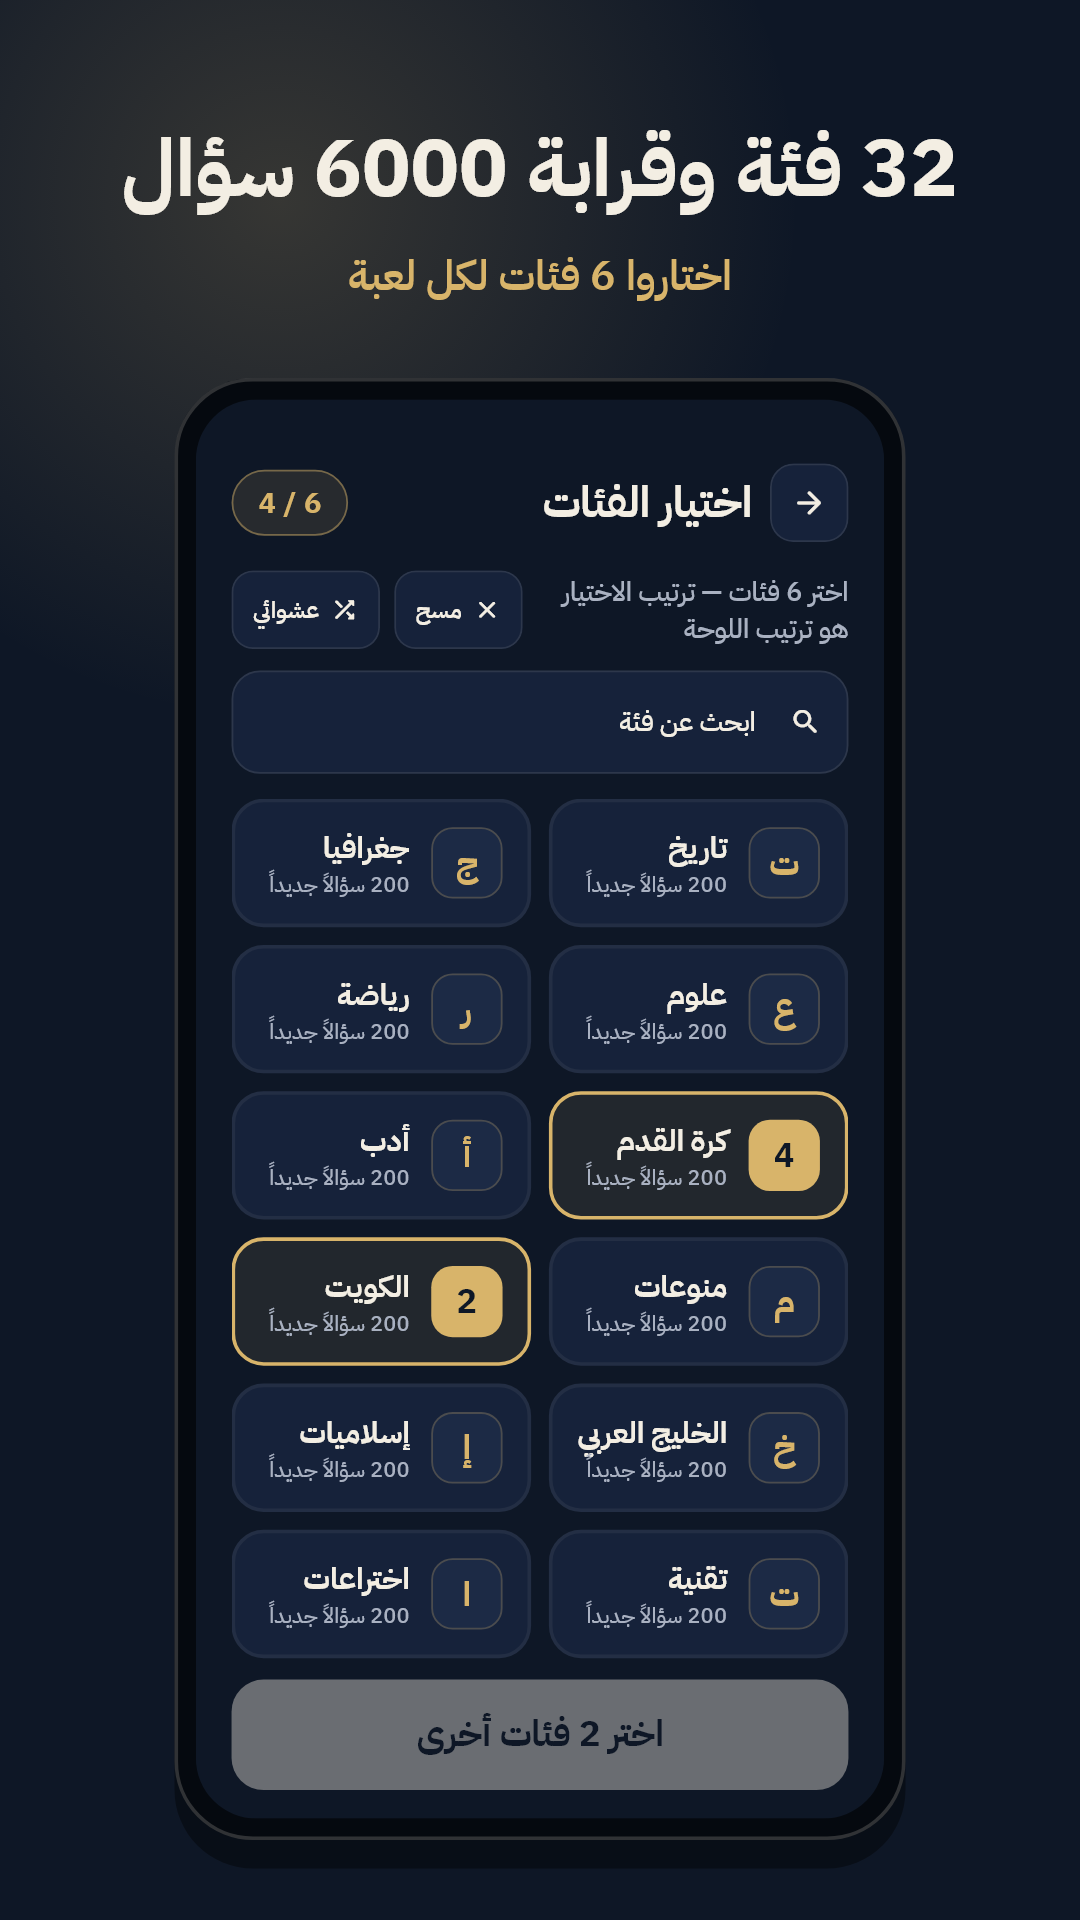
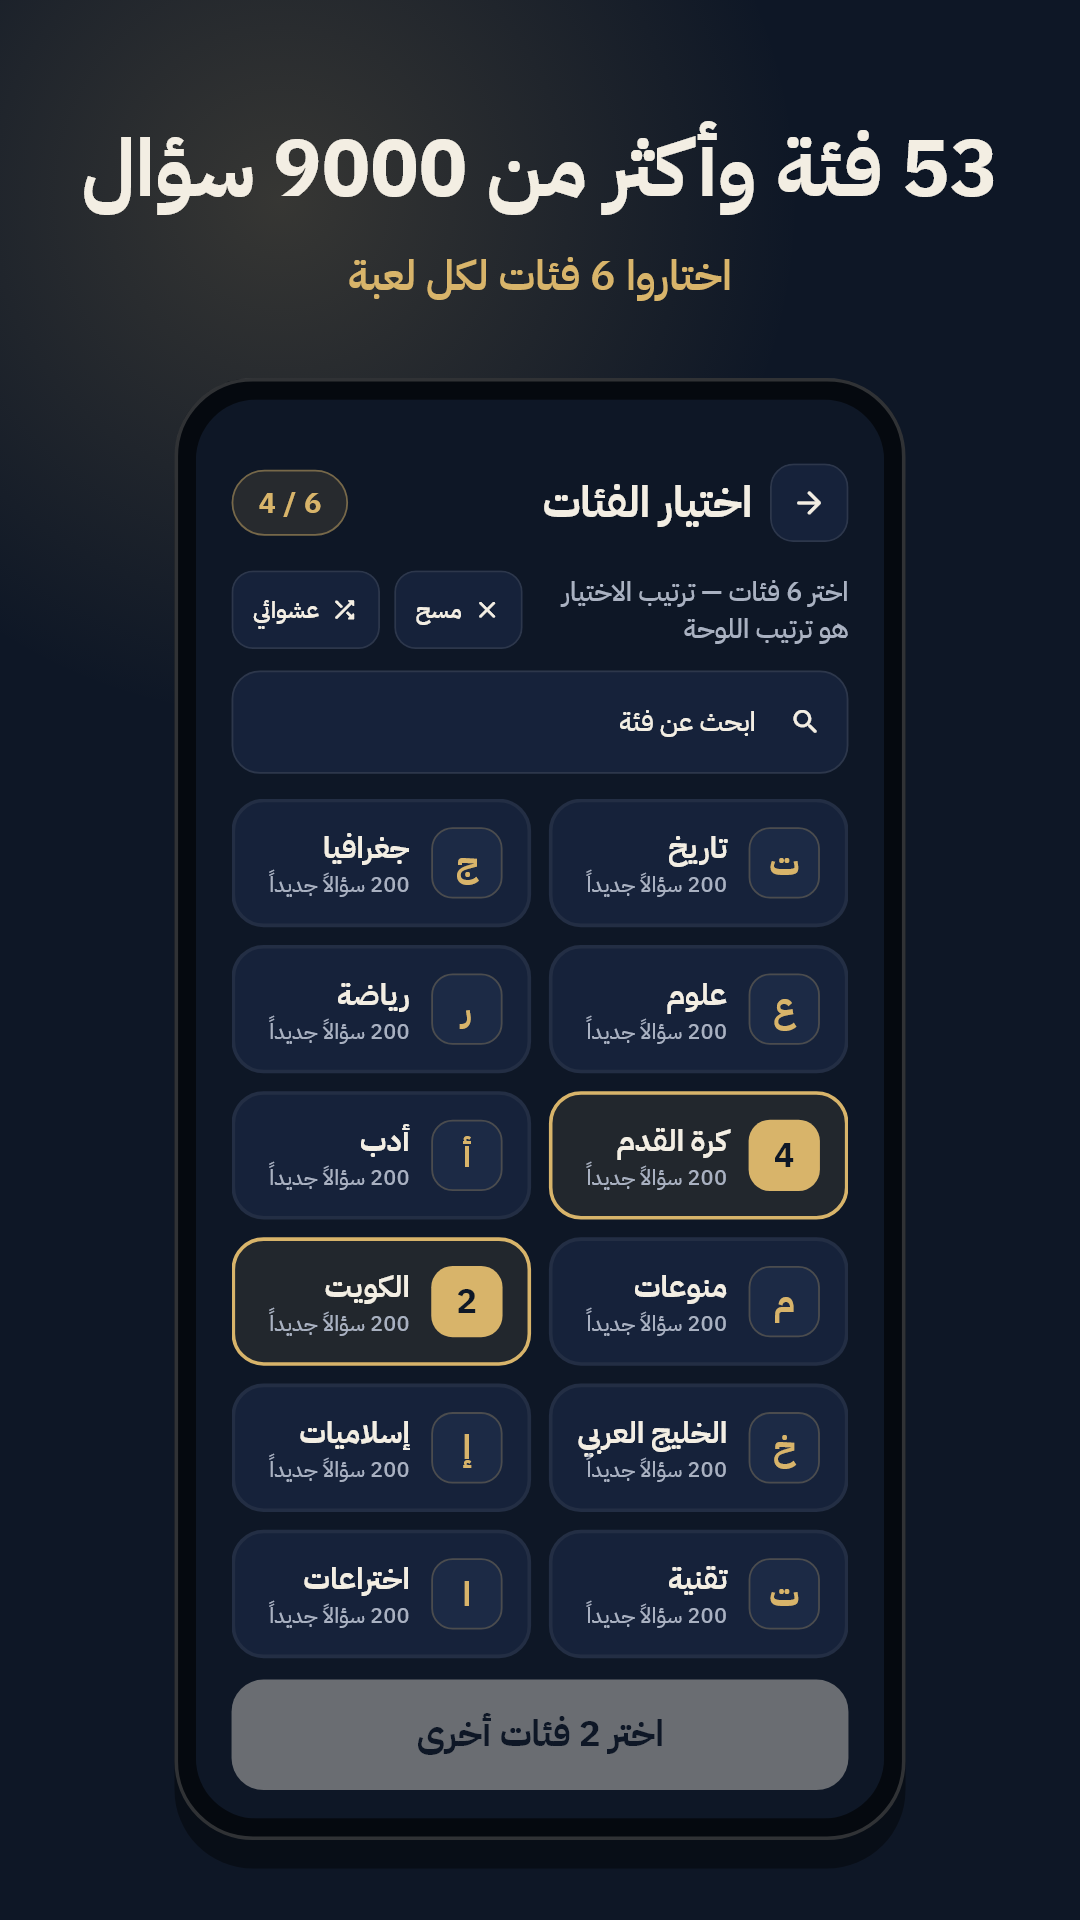
53 categories, buying without an account

Changed region(s): [[0.0611, 0.0625, 0.9167, 0.125]]

diff --git a/home.html b/home.html
@@ -4,7 +4,7 @@
 <meta charset="utf-8">
 <meta name="viewport" content="width=device-width, initial-scale=1">
 <title>إستفهام — لعبة أسئلة للديوانيات واليمعات</title>
-<meta name="description" content="إستفهام: لعبة أسئلة جماعية بين فريقين للديوانيات واليمعات، وتحدٍّ أونلاين بين جوالين. 32 فئة وقرابة 6000 سؤال، والنتيجة على شاشة التلفزيون.">
+<meta name="description" content="إستفهام: لعبة أسئلة جماعية بين فريقين للديوانيات واليمعات، وتحدٍّ أونلاين بين جوالين. 53 فئة وأكثر من 9000 سؤال، والنتيجة على شاشة التلفزيون.">
 <link rel="icon" href="icon.png">
 <style>
   :root { --bg: #0E1726; --surface: #16223A; --cream: #F3EEE3; --muted: #A9B1C1; --gold: #D8B46A; --border: rgba(243,238,227,.10); }
@@ -60,7 +60,7 @@
     <img src="icon.png" alt="أيقونة إستفهام">
     <h1>إستفهام</h1>
     <p class="tagline">لعبة أسئلة بين فريقين للديوانيات واليمعات</p>
-    <p class="lead">واحد يمسك الجوال ويقدّم، والفريقان يتنافسون على النقاط، والنتيجة تظهر على شاشة التلفزيون. 32 فئة وقرابة 6000 سؤال، وأول لعبة مجاناً.</p>
+    <p class="lead">واحد يمسك الجوال ويقدّم، والفريقان يتنافسون على النقاط، والنتيجة تظهر على شاشة التلفزيون. 53 فئة وأكثر من 9000 سؤال، وأول لعبة مجاناً.</p>
   </section>
 
   <h2 id="shots">صور اللعبة</h2>
@@ -77,7 +77,7 @@
   <h2 id="play">طريقة اللعب</h2>
   <ol class="steps">
     <li>سمّوا الفريقين، واختاروا من يبدأ.</li>
-    <li>اختاروا 6 فئات من بين 32 فئة.</li>
+    <li>اختاروا 6 فئات من بين 53 فئة.</li>
     <li>تظهر لوحة من 36 سؤالاً: 200 و400 و600 نقطة لكل فئة.</li>
     <li>الفريق صاحب الدور يختار سؤالاً، ويجاوب قبل انتهاء الوقت.</li>
     <li>المقدّم يكشف الإجابة ويحدد من جاوب صح بضغطة، وتنتقل النقاط.</li>
@@ -99,11 +99,11 @@
 
   <h2 id="features">المميزات</h2>
   <div class="grid">
-    <div class="card"><h3>32 فئة</h3><p>الكويت، الخليج، معالم العالم، أعلام الدول، كرة القدم، العلوم، الفضاء، التاريخ، أمثال شعبية، أكلات كويتية، ألغاز، وغيرها.</p></div>
+    <div class="card"><h3>53 فئة</h3><p>الكويت، لهجة كويتية، أهل البحر، أهل البر، الخليج، كأس الخليج، الدوري الكويتي، مسلسلات خليجية، معالم العالم، أعلام الدول، خرايط، كرة القدم، كأس العالم، العلوم، التاريخ، السيرة النبوية، أمثال شعبية، أكلات، كرتون زمان، ألغاز، وغيرها.</p></div>
     <div class="card"><h3>صور و«دندنها»</h3><p>أسئلة بالصور، وأسئلة «دندنها»: واحد من الفريق يدندن الأغنية بدون كلام، والباقي يخمّنون.</p></div>
     <div class="card"><h3>وسائل مساعدة</h3><p>«دبل» يضاعف النقاط، و«إجابتان» تعطي فرصتين، و«استريح» يريّح لاعباً من الفريق الخصم.</p></div>
     <div class="card"><h3>على التلفزيون</h3><p>اعرضوا اللوحة والأسئلة والنتيجة عبر Chromecast أو متصفح التلفزيون، والجوال يبقى بيد المقدّم.</p></div>
-    <div class="card"><h3>أول لعبة مجاناً</h3><p>بعدها لعبة أو أكثر، أو باقة 5 ألعاب بسعر أوفر. الألعاب محفوظة في حسابك على كل أجهزتك.</p></div>
+    <div class="card"><h3>أول لعبة مجاناً</h3><p>بعدها لعبة أو أكثر، أو باقة 5 ألعاب بسعر أوفر، بدون تسجيل. وإذا سجلت الدخول تنتقل ألعابك معك لكل أجهزتك.</p></div>
   </div>
 
   <h2 id="help">الدعم</h2>

diff --git a/index.html b/index.html
@@ -4,7 +4,7 @@
 <meta charset="utf-8">
 <meta name="viewport" content="width=device-width, initial-scale=1">
 <title>إستفهام — لعبة أسئلة للديوانيات واليمعات</title>
-<meta name="description" content="إستفهام: لعبة أسئلة جماعية بين فريقين للديوانيات واليمعات، وتحدٍّ أونلاين بين جوالين. 32 فئة وقرابة 6000 سؤال، والنتيجة على شاشة التلفزيون.">
+<meta name="description" content="إستفهام: لعبة أسئلة جماعية بين فريقين للديوانيات واليمعات، وتحدٍّ أونلاين بين جوالين. 53 فئة وأكثر من 9000 سؤال، والنتيجة على شاشة التلفزيون.">
 <link rel="icon" href="icon.png">
 <style>
   :root { --bg: #0E1726; --surface: #16223A; --cream: #F3EEE3; --muted: #A9B1C1; --gold: #D8B46A; --border: rgba(243,238,227,.10); }
@@ -60,7 +60,7 @@
     <img src="icon.png" alt="أيقونة إستفهام">
     <h1>إستفهام</h1>
     <p class="tagline">لعبة أسئلة بين فريقين للديوانيات واليمعات</p>
-    <p class="lead">واحد يمسك الجوال ويقدّم، والفريقان يتنافسون على النقاط، والنتيجة تظهر على شاشة التلفزيون. 32 فئة وقرابة 6000 سؤال، وأول لعبة مجاناً.</p>
+    <p class="lead">واحد يمسك الجوال ويقدّم، والفريقان يتنافسون على النقاط، والنتيجة تظهر على شاشة التلفزيون. 53 فئة وأكثر من 9000 سؤال، وأول لعبة مجاناً.</p>
   </section>
 
   <h2 id="shots">صور اللعبة</h2>
@@ -77,7 +77,7 @@
   <h2 id="play">طريقة اللعب</h2>
   <ol class="steps">
     <li>سمّوا الفريقين، واختاروا من يبدأ.</li>
-    <li>اختاروا 6 فئات من بين 32 فئة.</li>
+    <li>اختاروا 6 فئات من بين 53 فئة.</li>
     <li>تظهر لوحة من 36 سؤالاً: 200 و400 و600 نقطة لكل فئة.</li>
     <li>الفريق صاحب الدور يختار سؤالاً، ويجاوب قبل انتهاء الوقت.</li>
     <li>المقدّم يكشف الإجابة ويحدد من جاوب صح بضغطة، وتنتقل النقاط.</li>
@@ -99,11 +99,11 @@
 
   <h2 id="features">المميزات</h2>
   <div class="grid">
-    <div class="card"><h3>32 فئة</h3><p>الكويت، الخليج، معالم العالم، أعلام الدول، كرة القدم، العلوم، الفضاء، التاريخ، أمثال شعبية، أكلات كويتية، ألغاز، وغيرها.</p></div>
+    <div class="card"><h3>53 فئة</h3><p>الكويت، لهجة كويتية، أهل البحر، أهل البر، الخليج، كأس الخليج، الدوري الكويتي، مسلسلات خليجية، معالم العالم، أعلام الدول، خرايط، كرة القدم، كأس العالم، العلوم، التاريخ، السيرة النبوية، أمثال شعبية، أكلات، كرتون زمان، ألغاز، وغيرها.</p></div>
     <div class="card"><h3>صور و«دندنها»</h3><p>أسئلة بالصور، وأسئلة «دندنها»: واحد من الفريق يدندن الأغنية بدون كلام، والباقي يخمّنون.</p></div>
     <div class="card"><h3>وسائل مساعدة</h3><p>«دبل» يضاعف النقاط، و«إجابتان» تعطي فرصتين، و«استريح» يريّح لاعباً من الفريق الخصم.</p></div>
     <div class="card"><h3>على التلفزيون</h3><p>اعرضوا اللوحة والأسئلة والنتيجة عبر Chromecast أو متصفح التلفزيون، والجوال يبقى بيد المقدّم.</p></div>
-    <div class="card"><h3>أول لعبة مجاناً</h3><p>بعدها لعبة أو أكثر، أو باقة 5 ألعاب بسعر أوفر. الألعاب محفوظة في حسابك على كل أجهزتك.</p></div>
+    <div class="card"><h3>أول لعبة مجاناً</h3><p>بعدها لعبة أو أكثر، أو باقة 5 ألعاب بسعر أوفر، بدون تسجيل. وإذا سجلت الدخول تنتقل ألعابك معك لكل أجهزتك.</p></div>
   </div>
 
   <h2 id="help">الدعم</h2>
